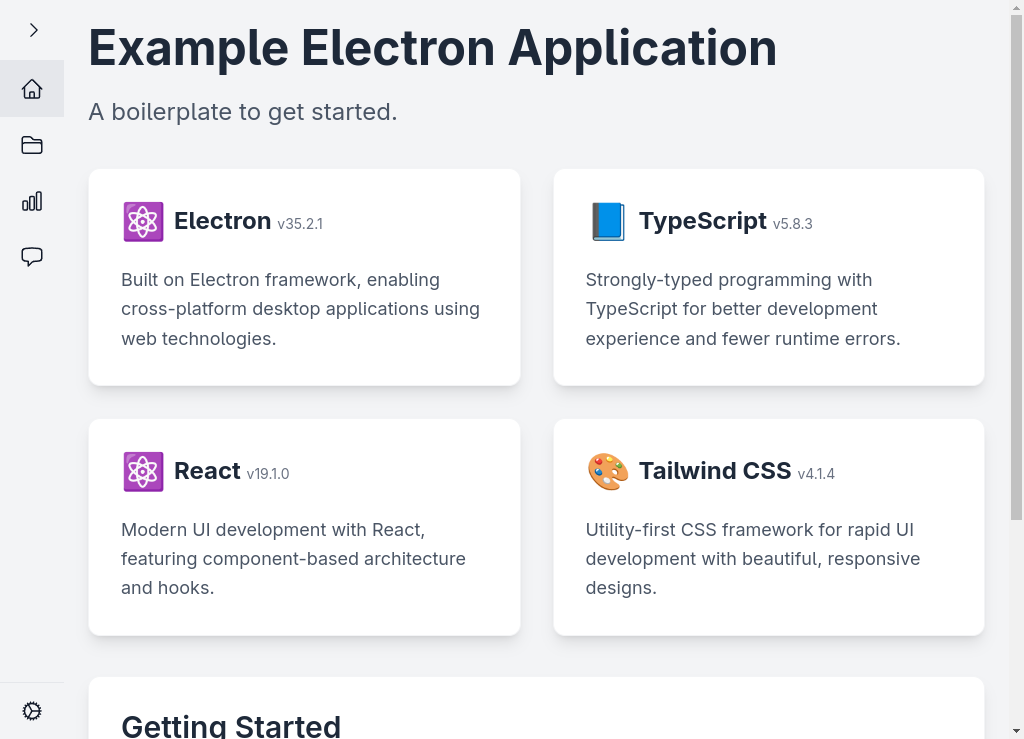
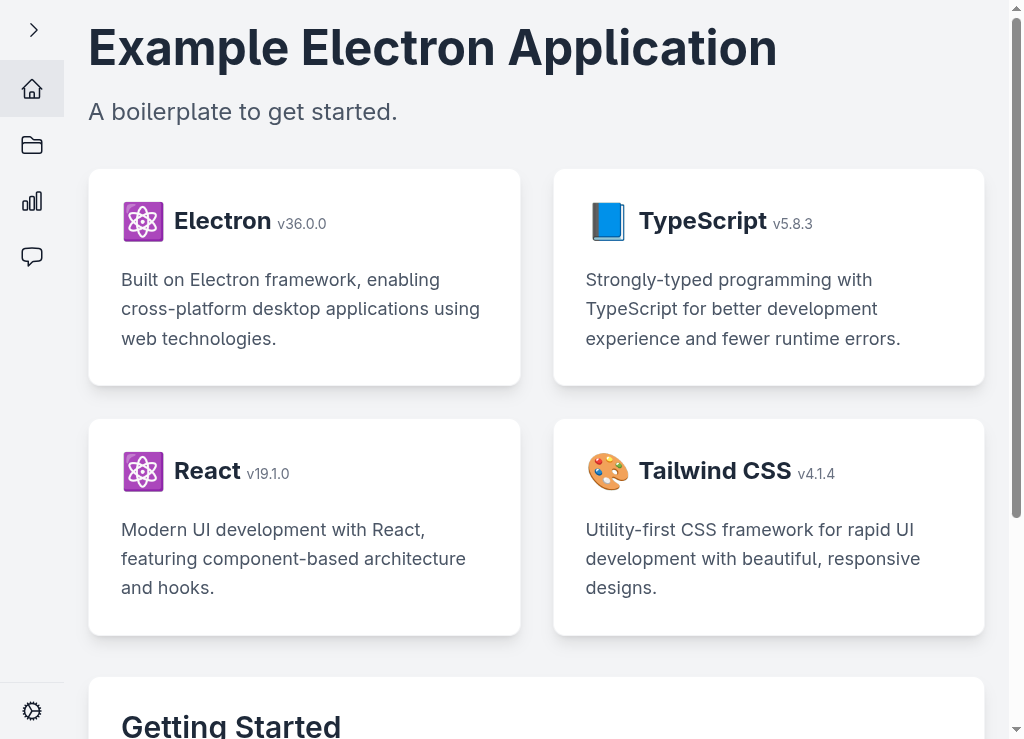
chore(deps): electron@36.0.0, latest others - add workaround for https://github.com/electron/electron/issues/46538 - regenerate screenshots - regenerate lock file
https://github.com/electron/electron/releases/tag/v36.0.0
https://github.com/typescript-eslint/typescript-eslint/releases/tag/v8.31.1

Changed region(s): [[0.9688, 0.0, 1.0, 0.7158], [0.2812, 0.2801, 0.3125, 0.3112]]

diff --git a/src/main.ts b/src/main.ts
@@ -12,6 +12,8 @@ if (process.platform === "linux" && process.env.NODE_ENV === "development") {
 }
 
 if (app.requestSingleInstanceLock()) {
+  // workaround https://github.com/electron/electron/issues/46538
+  app.commandLine.appendSwitch("gtk-version", "3");
   initializeApp();
 } else {
   console.log("Opening in existing app session.");
